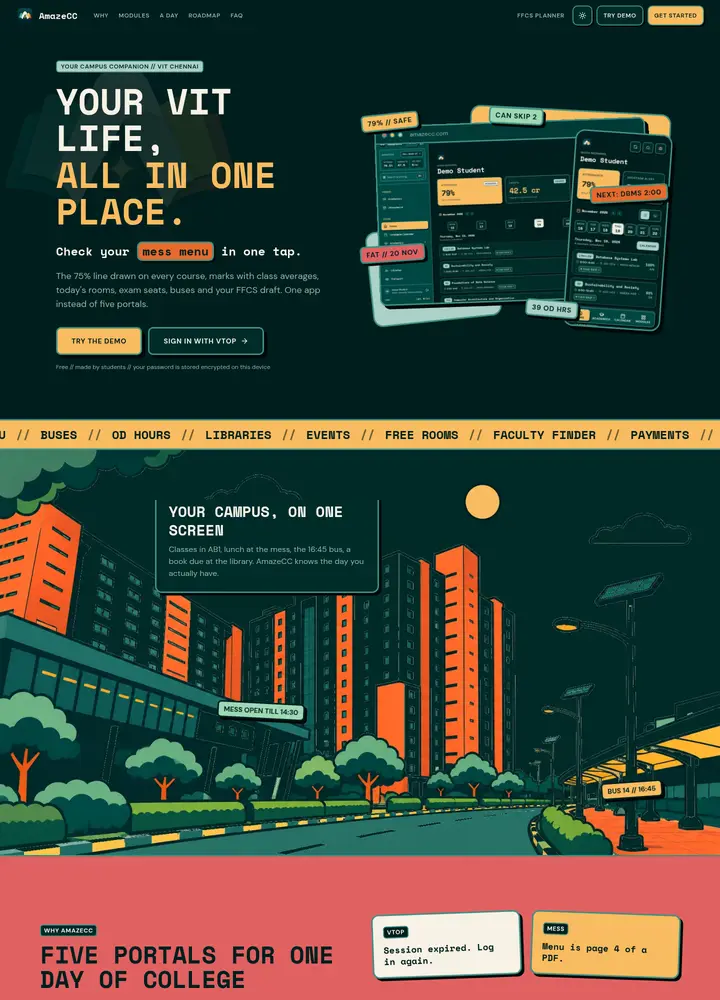
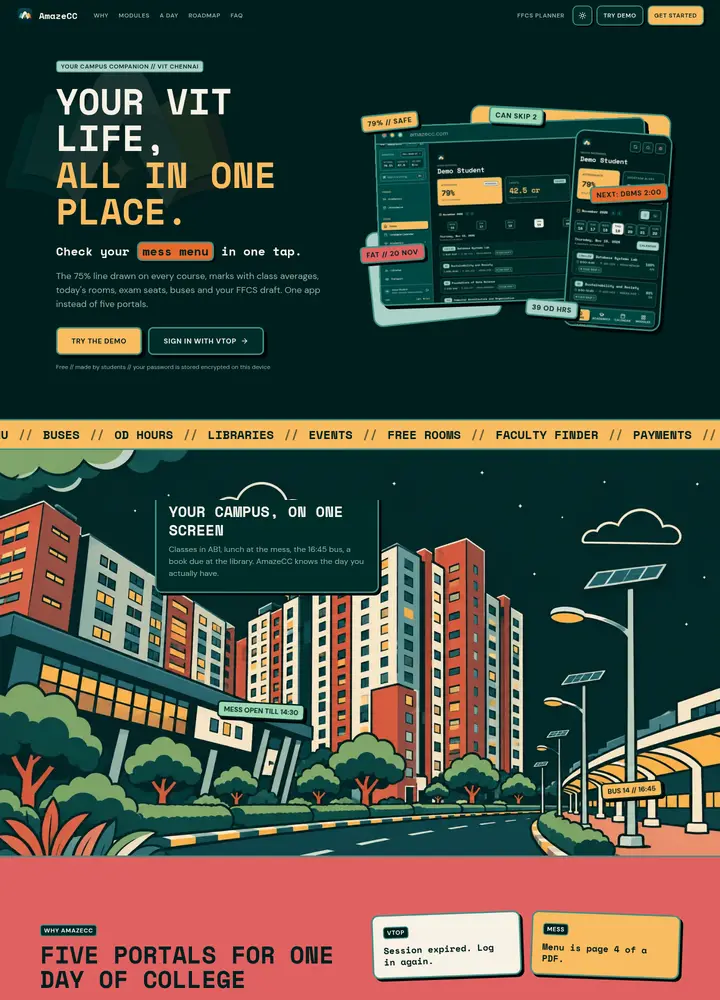
feat(landing): use the user's night campus illustration in dark mode
Replaces the derived night version with the user's own night art (lit
windows, stars, glowing lamps). Alt text updated. ROADMAP R1 gains the
v2 and campus-art notes (earlier edits had silently missed after
prettier reflowed the text).

Verified: 1440px dark capture (docs/redesign/screens/landing-v2-campus-dark.webp).

Claude-Session: https://claude.ai/code/session_014QjTrKGhmV5L6CWqvbdch6

diff --git a/src/components/custom/landing/LandingSections.tsx b/src/components/custom/landing/LandingSections.tsx
@@ -231,7 +231,7 @@ export default function LandingSections() {
         />
         <img
           src="/landing/campus-night.webp"
-          alt="The same campus at night, towers lit orange under an ochre moon"
+          alt="The same campus at night: lit windows, street lamps and a starry sky"
           width={1672}
           height={941}
           loading="lazy"

diff --git a/docs/redesign/ROADMAP.md b/docs/redesign/ROADMAP.md
@@ -55,6 +55,18 @@ Done when:
 - [ ] Lighthouse accessibility ≥ 95; all images have alt text
 - [ ] Before/after screenshots added to `screens/`
 
+**v2 ("masterpiece" pass, 2026-11-19).** Colour-flooded sections (coral,
+ochre, sage, mint, teal, orange), ticker bands, a cycling colour word in the
+hero, floating stickers + mouse parallax, scroll reveals, count-ups, a bento of
+live mini UIs, a closing ochre CTA. Motion is CSS in `brand.css` ("Landing page
+motion") + `landing/LandingMotion.tsx`, off under reduced motion. Extra fixed
+colours: `coral`, `orange`, `mint`, `obsidian` (ink text ≥ 5:1 on all).
+
+**Campus art.** The user's illustrations: `public/landing/campus-day.webp`
+(light) and `public/landing/campus-night.webp` (dark, lit windows and stars),
+shown as a full-bleed panorama after the first ticker, picked by CSS. Replace
+them in place to update; keep ~1670×940, WebP quality ~80.
+
 ## R2 · FFCS planner bugs ("bugging so much", demo and real)
 
 A debugging project first, styling second. Files:
